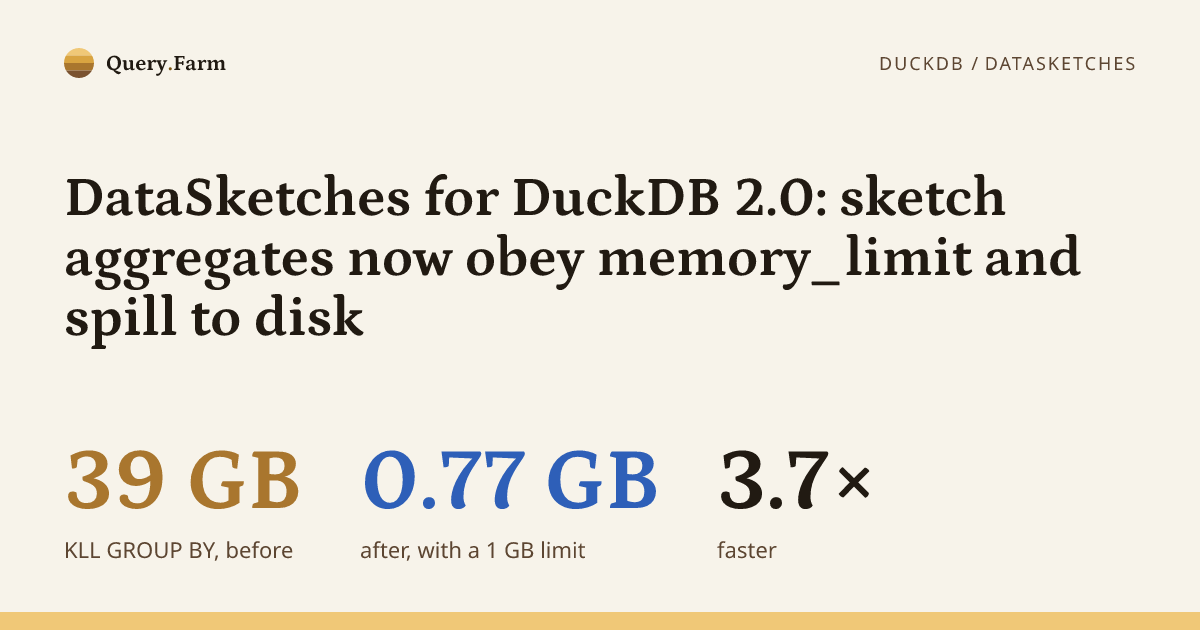
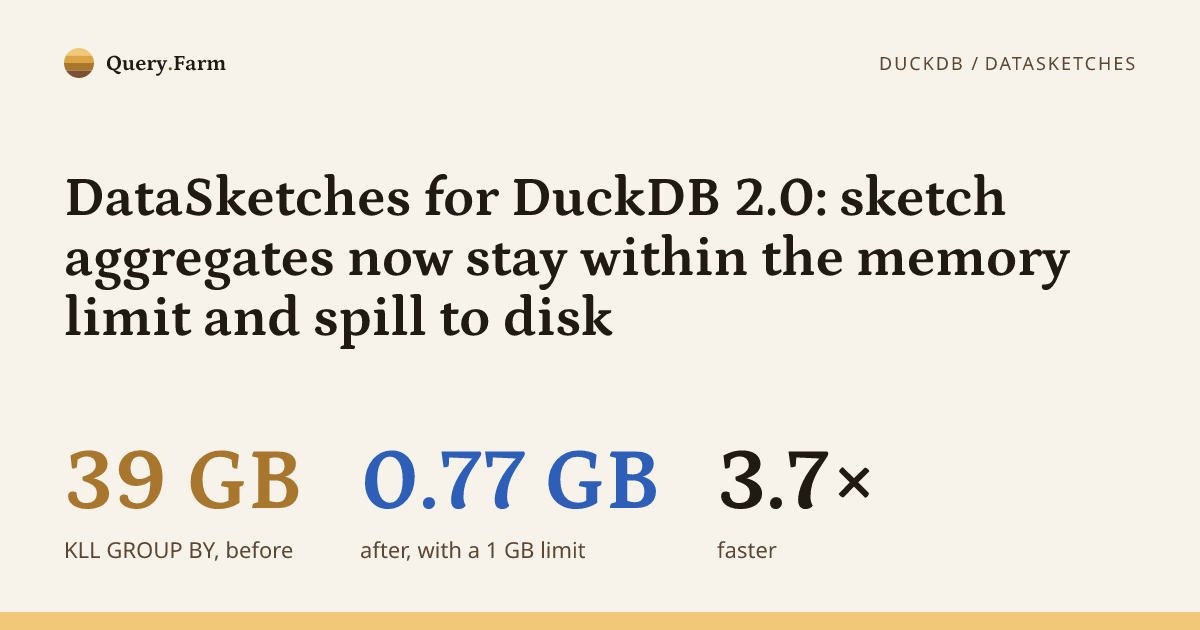
Say "memory limit" in the DataSketches post title
The setting name read as jargon in a headline and broke across lines on
the social card. The body still names memory_limit where it's code.

Changed region(s): [[0.0617, 0.3619, 0.925, 0.573]]

diff --git a/src/content/blog/datasketches-memory-limit-spilling.md b/src/content/blog/datasketches-memory-limit-spilling.md
@@ -1,5 +1,5 @@
 ---
-title: "DataSketches for DuckDB 2.0: sketch aggregates now obey memory_limit and spill to disk"
+title: "DataSketches for DuckDB 2.0: sketch aggregates now stay within the memory limit and spill to disk"
 description: "A grouped KLL query used 39 GB under a 1 GB memory limit. Now it uses 0.77 GB and runs 3.7× faster. Here's how we moved 15 sketch families into DuckDB's spillable memory, and the library bugs we fixed along the way."
 showDescription: false
 pubDate: 2026-10-28
